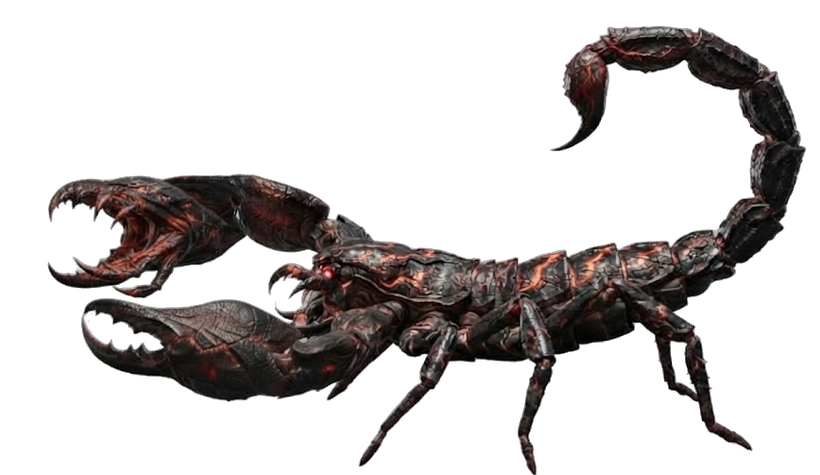
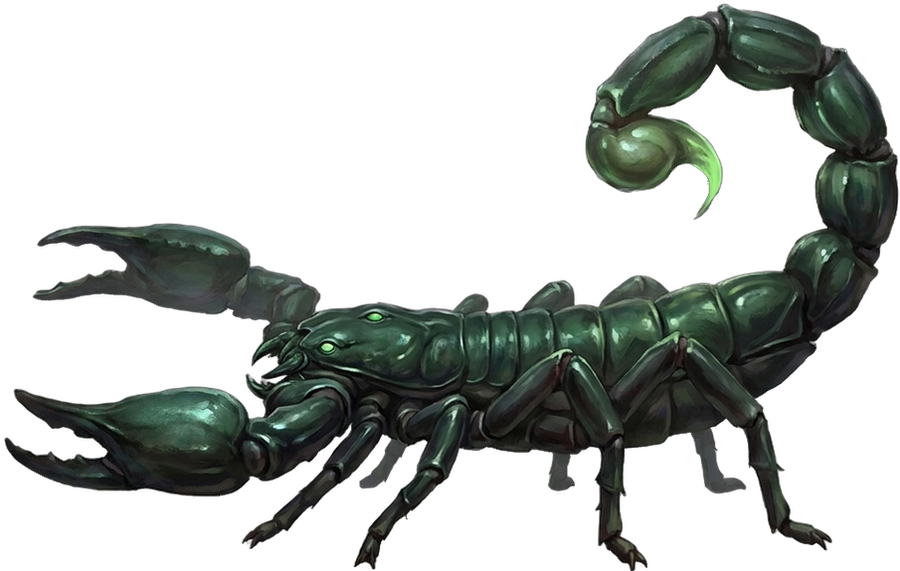
Venom Scorpion: redesigned picture, roar picture, animated from its own videos with its own voice
Claude-Session: https://claude.ai/code/session_018PQaDMAeHFrLTZzcauLmnB

diff --git a/tests/test_web_explore.py b/tests/test_web_explore.py
@@ -1041,6 +1041,23 @@ def test_the_white_browed_tiger_king_is_animated_from_its_own_videos_with_its_ow
     assert explore_play.beast_body("White-Browed Tiger King") == "white_browed_tiger_king"
 
 
+def test_the_venom_scorpion_is_animated_from_its_own_videos_with_its_own_voice():
+    """SHOAIB's redesigned Venom Scorpion (Nov 27, Martial Expert): its idle from the attack video's calm stretch, its
+    tail-over-the-head strike (green slash arc dropped), its jolt (spark burst dropped) and its sinking onto its belly
+    (stopped before the video turned its pincers black); the video's "AI" badge is dropped with the sparkle."""
+    import json
+    from web import beast_sheets, death, explore_play
+    d = beast_sheets.sheets("venom_scorpion")
+    assert d and set(d["sheets"]) == {"idle", "attack", "hit", "death"} and d["sheets"]["idle"]["smooth"]
+    assert death.view({"kind": "beast", "name": "Venom Scorpion", "slug": "venom_scorpion"})["kind"] == "sheet"
+    assert os.path.exists(os.path.join("art", "beasts", "roar", "venom_scorpion.png"))
+    keys = json.load(open(os.path.join("art", "fx", "sounds", "sounds.json")))
+    for sound in ("hit", "lunge", "death", "roar", "roar:big"):
+        assert f"{sound}@venom_scorpion" in keys
+    assert json.load(open(os.path.join("art", "beasts", "heads.json")))["venom_scorpion@roar"][:2] == [0.31, 0.6]
+    assert explore_play.beast_body("Venom Scorpion") == "venom_scorpion"
+
+
 def test_a_move_ending_in_another_pose_slides_and_dissolves_back_into_the_idle():
     """`make_beast_sheets.settle`: the last frames slide until the nose meets the idle's, then dissolve into it."""
     from PIL import Image

diff --git a/scripts/make_beast_sheets.py b/scripts/make_beast_sheets.py
@@ -113,6 +113,15 @@ CLIPS = {
                                 "drop": {"attack": ((4.38, 5.12),), "hit": ((0.72, 1.12),)},
                                 "settle": {"attack": 4, "hit": 3}, "hold": {"hit": 3}, "mark": ((0, 0, 1, 1),),
                                 "place_as": {"attack": "idle", "hit": "idle", "death": "idle"}},
+    # Nov 27, from its two videos as they were (no remakes): its idle from the attack video's calm stretch (before that
+    # its pincers glowed), its tail-over-the-head strike from the same video (the green slash arc dropped), its jolt from
+    # the hit video (its spark burst dropped), its sinking onto its belly from the same (stopped before the video turned
+    # its pincers black); the video kept the picture's "AI" badge as well as the sparkle (`mark`: both boxes)
+    "venom_scorpion": {"attack": (3.6, 6.5), "hit": (0.3, 1.75), "death": (3.3, 6.1), "idle_span": (24, 30),
+                       "idle_from": 2.7, "idle_until": 4.0, "attack_ms": 2600,
+                       "drop": {"attack": ((4.4, 4.95),), "hit": ((0.8, 1.2),)}, "ease_in": {"death": 2},
+                       "settle": {"attack": 4, "hit": 3}, "mark": ((1100, 540, 1230, 660), (1190, 640, 1275, 708)),
+                       "place_as": {"attack": "idle", "hit": "idle", "death": "idle"}},
 }
 MARK = (1100, 540, 1230, 660)   # Gemini's sparkle sits in here (x0, y0, x1, y1 of the 1280 x 720 frame)
 # (a beast's own `mark`: tighter boxes where its pale tail tip passes near the sparkle (the fox's), or a second sparkle

diff --git a/scripts/make_roar_fx.py b/scripts/make_roar_fx.py
@@ -93,7 +93,7 @@ MOUTHS = {
     "thunder_hawk": (0.03, 0.47),
     "thunder_rhino": (0.12, 0.6),
     "tiangou_the_heavenly_hound": (0.18, 0.37),
-    "venom_scorpion": (0.36, 0.6),
+    "venom_scorpion": (0.32, 0.61),
     "vermilion_bird": (0.17, 0.27),
     "void_serpent": (0.03, 0.2),
     "white_browed_tiger_king": (0.055, 0.35),
@@ -161,7 +161,7 @@ ROAR_MOUTHS = {
     "thousand_year_centipede": (0.09, 0.3),
     "thunder_hawk": (0.26, 0.31),
     "thunder_rhino": (0.24, 0.5),
-    "venom_scorpion": (0.36, 0.6),
+    "venom_scorpion": (0.31, 0.6),
     "vermilion_bird": (0.36, 0.24),
     "void_serpent": (0.08, 0.25),
     "white_browed_tiger_king": (0.12, 0.36),

diff --git a/docs/web.md b/docs/web.md
@@ -541,6 +541,7 @@ What is recorded now (23 names, 22 files, about 220 KB, all from SHOAIB's videos
 | The Field Viper's strike snap, its pained hiss, the thump as it drops, its hiss and big hiss (`@field_viper`) | its own idle + strike and hit + death videos (Nov 26) |
 | The Armored Boar Chief's squealing tusk toss, its squeal when struck, its dying grunts as it falls, its snorts and big grunt (`@armored_boar_chief`) | its own idle + attack and hit + death videos (Nov 27) |
 | The White-Browed Tiger King's roaring paw swipe, its snarl when struck, its dying growl, its growl and big roar (`@white_browed_tiger_king`) | its own idle + attack and hit + death videos (Nov 27) |
+| The Venom Scorpion's hissing tail strike, its hiss when struck, its dying rattle, its hiss and big hiss (`@venom_scorpion`) | its own idle + attack and hit + death videos (Nov 27) |
 | A roar, and a big roar, for wolf-, cat- and ape-bodied beasts | the quadruped roar video |
 
 **His own sounds (Nov 24).** The new male's videos carry sound too, and his moves play it: his Strike's swing, his
@@ -984,7 +985,7 @@ its beasts in `DEATH_CATEGORY`. To give another four-legged beast the movement, 
 ## Animated beasts
 
 A beast can be animated from its videos (SHOAIB's, Gemini or Flow: idle, attack, hit, death; so far the **Grey Wolf**
-and the redesigned **Wild Boar**, **Field Viper**, **Stray Dog Pack**, **Wild Ox**, **Old Black Bear**, **Iron-Hide Boar**, **Red Fox**, the first bird, the **Wind-Feather Falcon**, the **Shadow Wolf**, the **Horned Stag**, the **Mountain Tiger**, the **Rock Python**, the **Spear-Beak Crane**, the **Thornback Lizard**, the **Bloodfang Wolf**, the **Armored Boar Chief** and the **White-Browed Tiger King**). One video can hold two of them: the Wild Boar's idle comes from one video, its hit
+and the redesigned **Wild Boar**, **Field Viper**, **Stray Dog Pack**, **Wild Ox**, **Old Black Bear**, **Iron-Hide Boar**, **Red Fox**, the first bird, the **Wind-Feather Falcon**, the **Shadow Wolf**, the **Horned Stag**, the **Mountain Tiger**, the **Rock Python**, the **Spear-Beak Crane**, the **Thornback Lizard**, the **Bloodfang Wolf**, the **Armored Boar Chief**, the **White-Browed Tiger King** and the **Venom Scorpion**). One video can hold two of them: the Wild Boar's idle comes from one video, its hit
 and attack from a second, its death from a third (`CLIPS` gives the seconds of each).
 **The move panel never changes height** (fight.js `holdInfo`): it is held at the height of its tallest text (every
 move's and technique's, tried once when the page comes in, and again when the window changes size). Guard's and

diff --git a/art/beasts/PROMPTS.md b/art/beasts/PROMPTS.md
@@ -127,7 +127,13 @@ Its first prompt, before the redesign:
 ## Martial Expert
 
 **Venom Scorpion** · Normal · Venom
-File: `art/beasts/venom_scorpion.png`
+File: `art/beasts/venom_scorpion.png` (Nov 27 redesign, Nano Banana Pro; animated from its idle + attack and hit + death videos, each move from whichever
+video had it clean. Its stinger's glow led Veo to light up its pincers and draw green slash arcs: next time, no glow on
+body parts)
+
+> A Venom Scorpion for a Chinese xianxia martial arts game: a huge scorpion the size of a large dog, with thick gleaming dark-green chitin armour shading to black at the joints, two big heavy pincers held forward, eight sturdy legs, and a THICK segmented tail curled tightly up and forward over its back, ending in a large bulbous stinger with a faint toxic-green glow of venom Qi, the whole tail solid and close to the body. Small glowing green eyes. Dangerous and patient, a natural creature, not a monster. Strict side view, facing LEFT, standing low on its legs, pincers pointing forward to the left, all legs clearly visible, solid and separated, stinger above the middle of its back. The whole scorpion, from pincer tips to the back of its body, takes up about two thirds of the picture's width, placed a little right of centre, with clear empty grey space above the stinger (about a fifth of the picture's height) and on the left, and its legs a little above the bottom edge. Realistic digital painting, premium Chinese xianxia MMORPG creature concept art, detailed chitin and segments, soft natural rim lighting, painterly brushwork, rich but mature colours. Plain flat medium-grey background, no ground, no sand, no shadow, no venom drips, no glow outline, no aura, no sparkles, no text, no watermark. 16:9.
+
+Its first prompt, before the redesign:
 
 > A large dark-green scorpion with a glowing venom-filled stinger, chitin gleaming, with a subtle toxic green elemental aura. Digital painting, premium Chinese xianxia MMORPG creature concept art. Realistic anatomy, detailed chitin and segments, dramatic natural rim lighting, painterly brushwork, rich but mature colours. Full body, three-quarter view facing left, dynamic pose. Isolated on a plain transparent background, no ground, no text, no frame, no watermark.
 

diff --git a/art/beasts/README.md b/art/beasts/README.md
@@ -55,5 +55,7 @@ mirrored); every move is taken from whichever of its two videos had it clean. Th
 wild boar in dented bronze plates with short broken spear stubs in its hide; its idle comes from the calm middle of
 its hit video, since its attack video began with steam puffing from its snout. The **White-Browed Tiger King**, the Martial
 Warrior Beast King, is a colossal white tiger with icy-blue stripes; its picture was mirrored to face left and its
-backdrop evened out before its videos, and its video effects are dropped frame by frame (wiping white would wipe its fur). The beasts are
+backdrop evened out before its videos, and its video effects are dropped frame by frame (wiping white would wipe its fur). The **Venom Scorpion** (Martial Expert) is a huge
+dark-green scorpion with its tail curled over its back; its videos kept the picture's "AI" badge as well as the
+sparkle, so both are dropped, and its strike is taken without the green slash arc the video drew. The beasts are
 being redone one at a time in roster order the same way.
